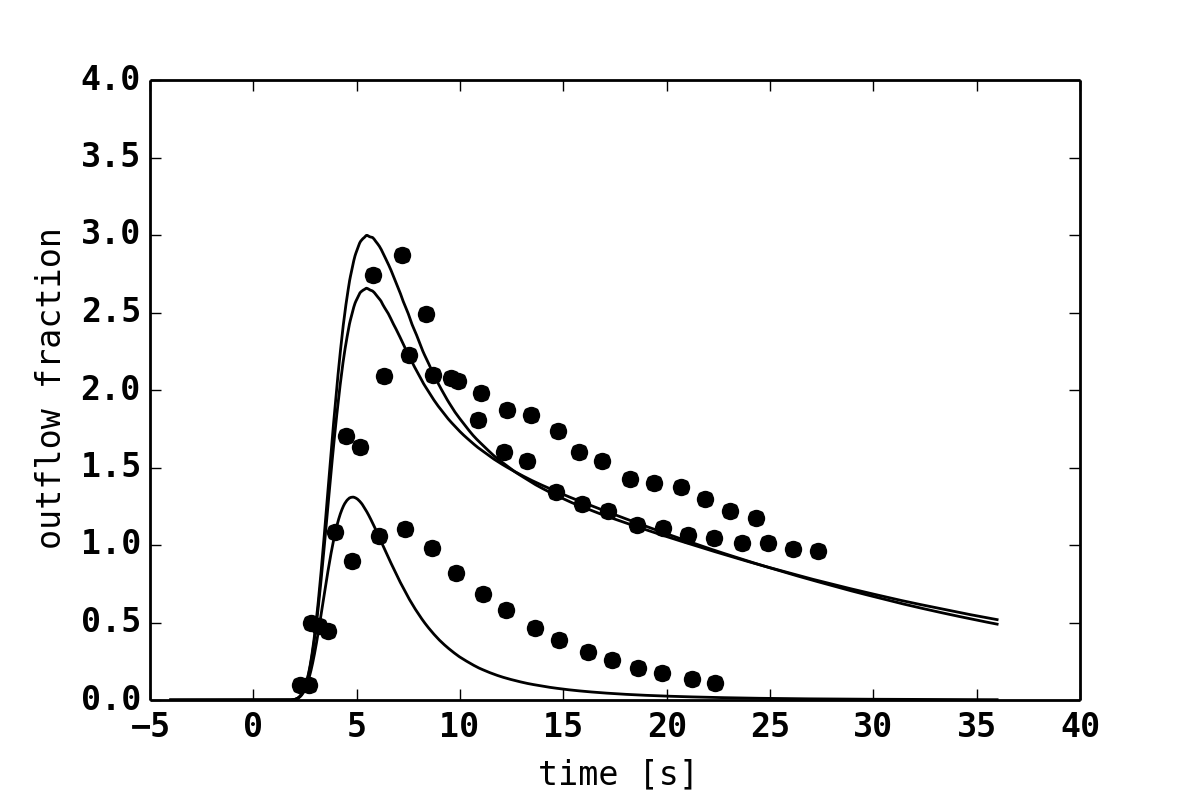
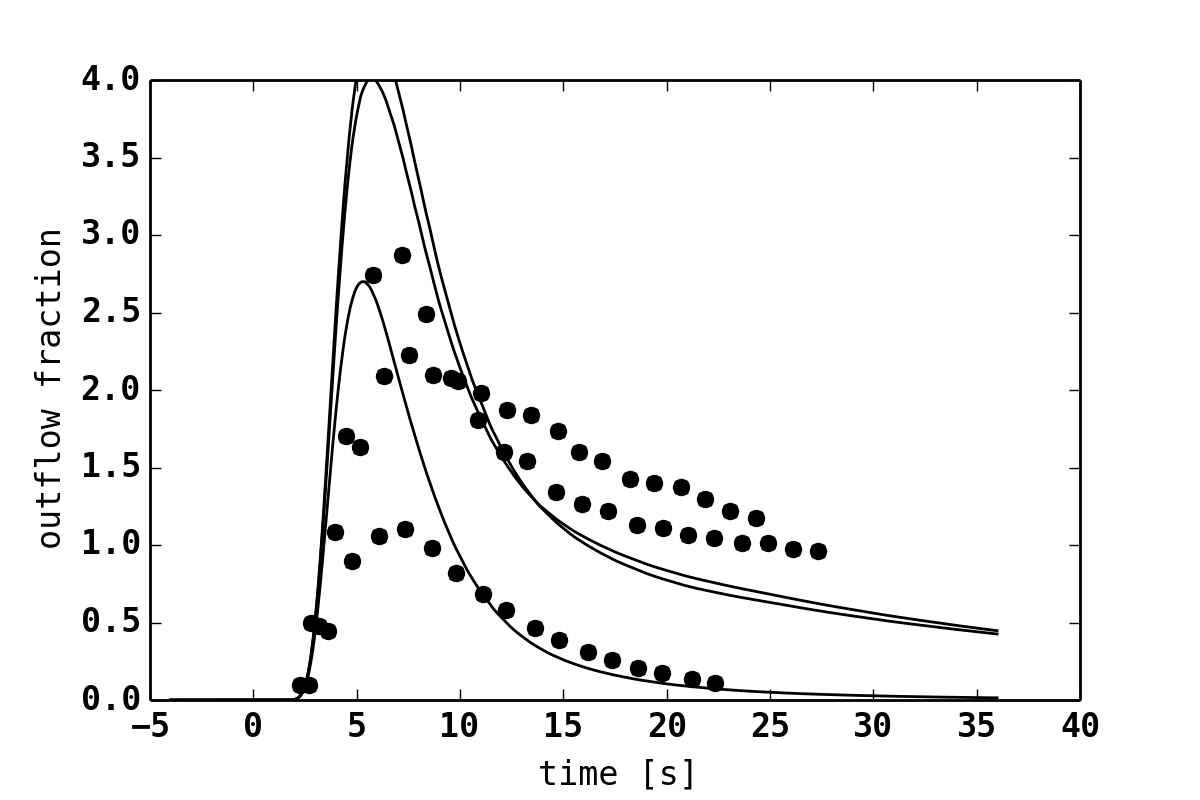
Adaption of dilution curve calculation to dogs

diff --git a/python/simulator/simulator/roadrunner_tools/galactose_settings.py b/python/simulator/simulator/roadrunner_tools/galactose_settings.py
@@ -6,7 +6,7 @@ Created on Thu Feb 12 11:58:16 2015
 """
 
 # Model version to use
-VERSION = 104
+VERSION = 105
 SBML_DIR = '/home/mkoenig/multiscale-galactose-results/tmp_sbml'
 T_PEAK = 5000
 
@@ -15,11 +15,12 @@ F_FLOW = 0.5
 # Model changes applied to all simulations
 D_TEMPLATE = {
               "gal_challenge" : 8,  
-              "GALK_k_gal": 0.14,
+              # "GALK_k_gal": 0.14,
+              # "scale_f" : 0.37,   # human 
               # "y_dis" : 2.3E-6,
               #"y_cell" : 8.39E-6*1.12,
               #"f_cyto" : 0.4,
-              "scale_f" : 0.41/1.1,
+              
               #"GALK_PA" : 0.024,
               #"GLUT2_f" : 7.5,              
               # "H2OT_f": 5.0,         

diff --git a/python/modelcreator/modelcreator/models/GalactoseFactory.py b/python/modelcreator/modelcreator/models/GalactoseFactory.py
@@ -20,9 +20,9 @@ from modelcreator.events.event_factory import createGalactoseStepEventData
 if __name__ == "__main__":
     
     # definition of cell model and tissue model
-    Nc = 20
+    Nc = 1
     Nf = 1
-    version = 104
+    version = 105
     cell_model = CellModel.createModel('galactose.GalactoseCell')
     tdict = TissueModel.createTissueDict(['SinusoidalUnit', 
                                           'galactose.GalactoseSinusoid']) 

diff --git a/python/modelcreator/modelcreator/models/galactose/GalactoseReactions.py b/python/modelcreator/modelcreator/models/galactose/GalactoseReactions.py
@@ -23,7 +23,7 @@ GALK = ReactionTemplate(
             ('GALK_k_adp',   0.8,     'mM'),
             ('GALK_ki_gal1p', 5.3,    'mM'),
             ('GALK_kcat',     8.7,    'per_s'),
-            ('GALK_k_gal',   0.97,    'mM'),
+            ('GALK_k_gal',   0.14,    'mM'),
             ('GALK_k_atp',   0.034,   'mM'),
             ('c__GALK_P',    1.0,     'mM'),
     ],

diff --git a/python/modelcreator/modelcreator/models/galactose/GalactoseCell.py b/python/modelcreator/modelcreator/models/galactose/GalactoseCell.py
@@ -49,7 +49,7 @@ species = [
             ('c__nadph',            0.1,    'mM'),
 ]
 pars = [# id, value, unit, constant            
-            ('scale_f',   0.41,   'per_m3',    True),
+            ('scale_f',   0.37,   'per_m3',    True),
             ('REF_P',     1.0,      'mM',   True),
             ('deficiency',  0,      '-',    True),
 ]  

diff --git a/python/simulator/simulator/roadrunner_tools/galactose_dilution_flux.py b/python/simulator/simulator/roadrunner_tools/galactose_dilution_flux.py
@@ -59,6 +59,7 @@ for gal in [0.28, 12.5, 17.5]:
         d = copy.deepcopy(settings.D_TEMPLATE) 
         d["[PP__gal]"] = gal
         d["flow_sin"] = f
+        d["scale_f"] = r.scale_f/2    # dog half GEC 
         p_list.append(d)
     gal_p_list.append(p_list)
 
